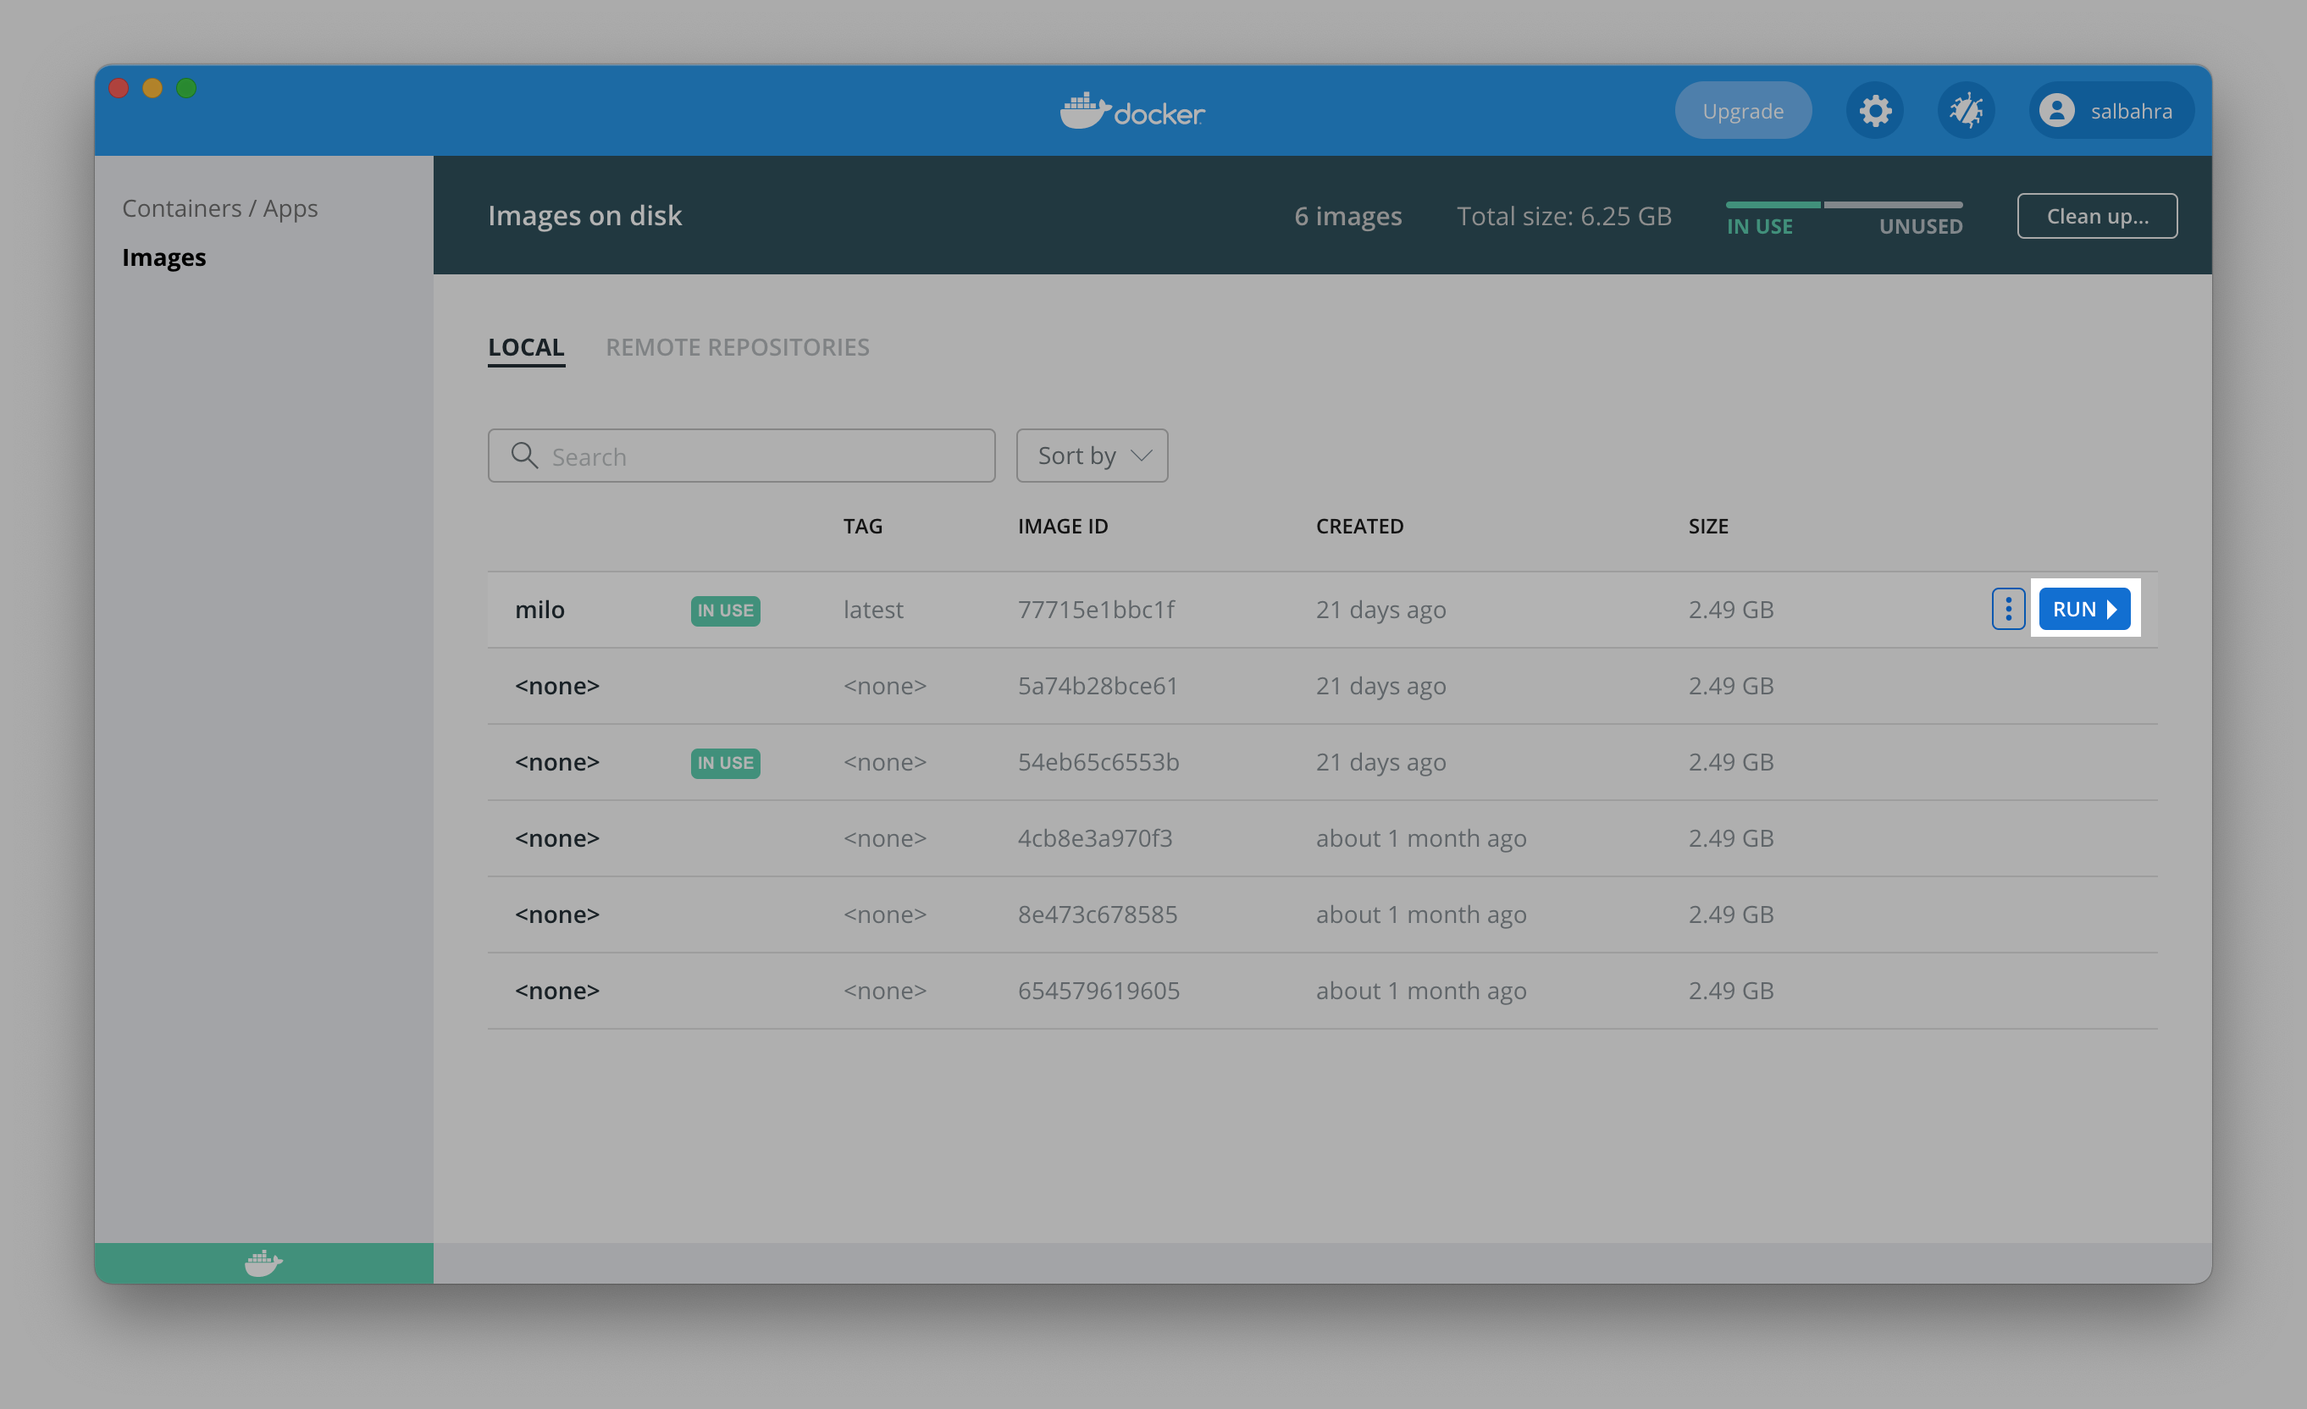
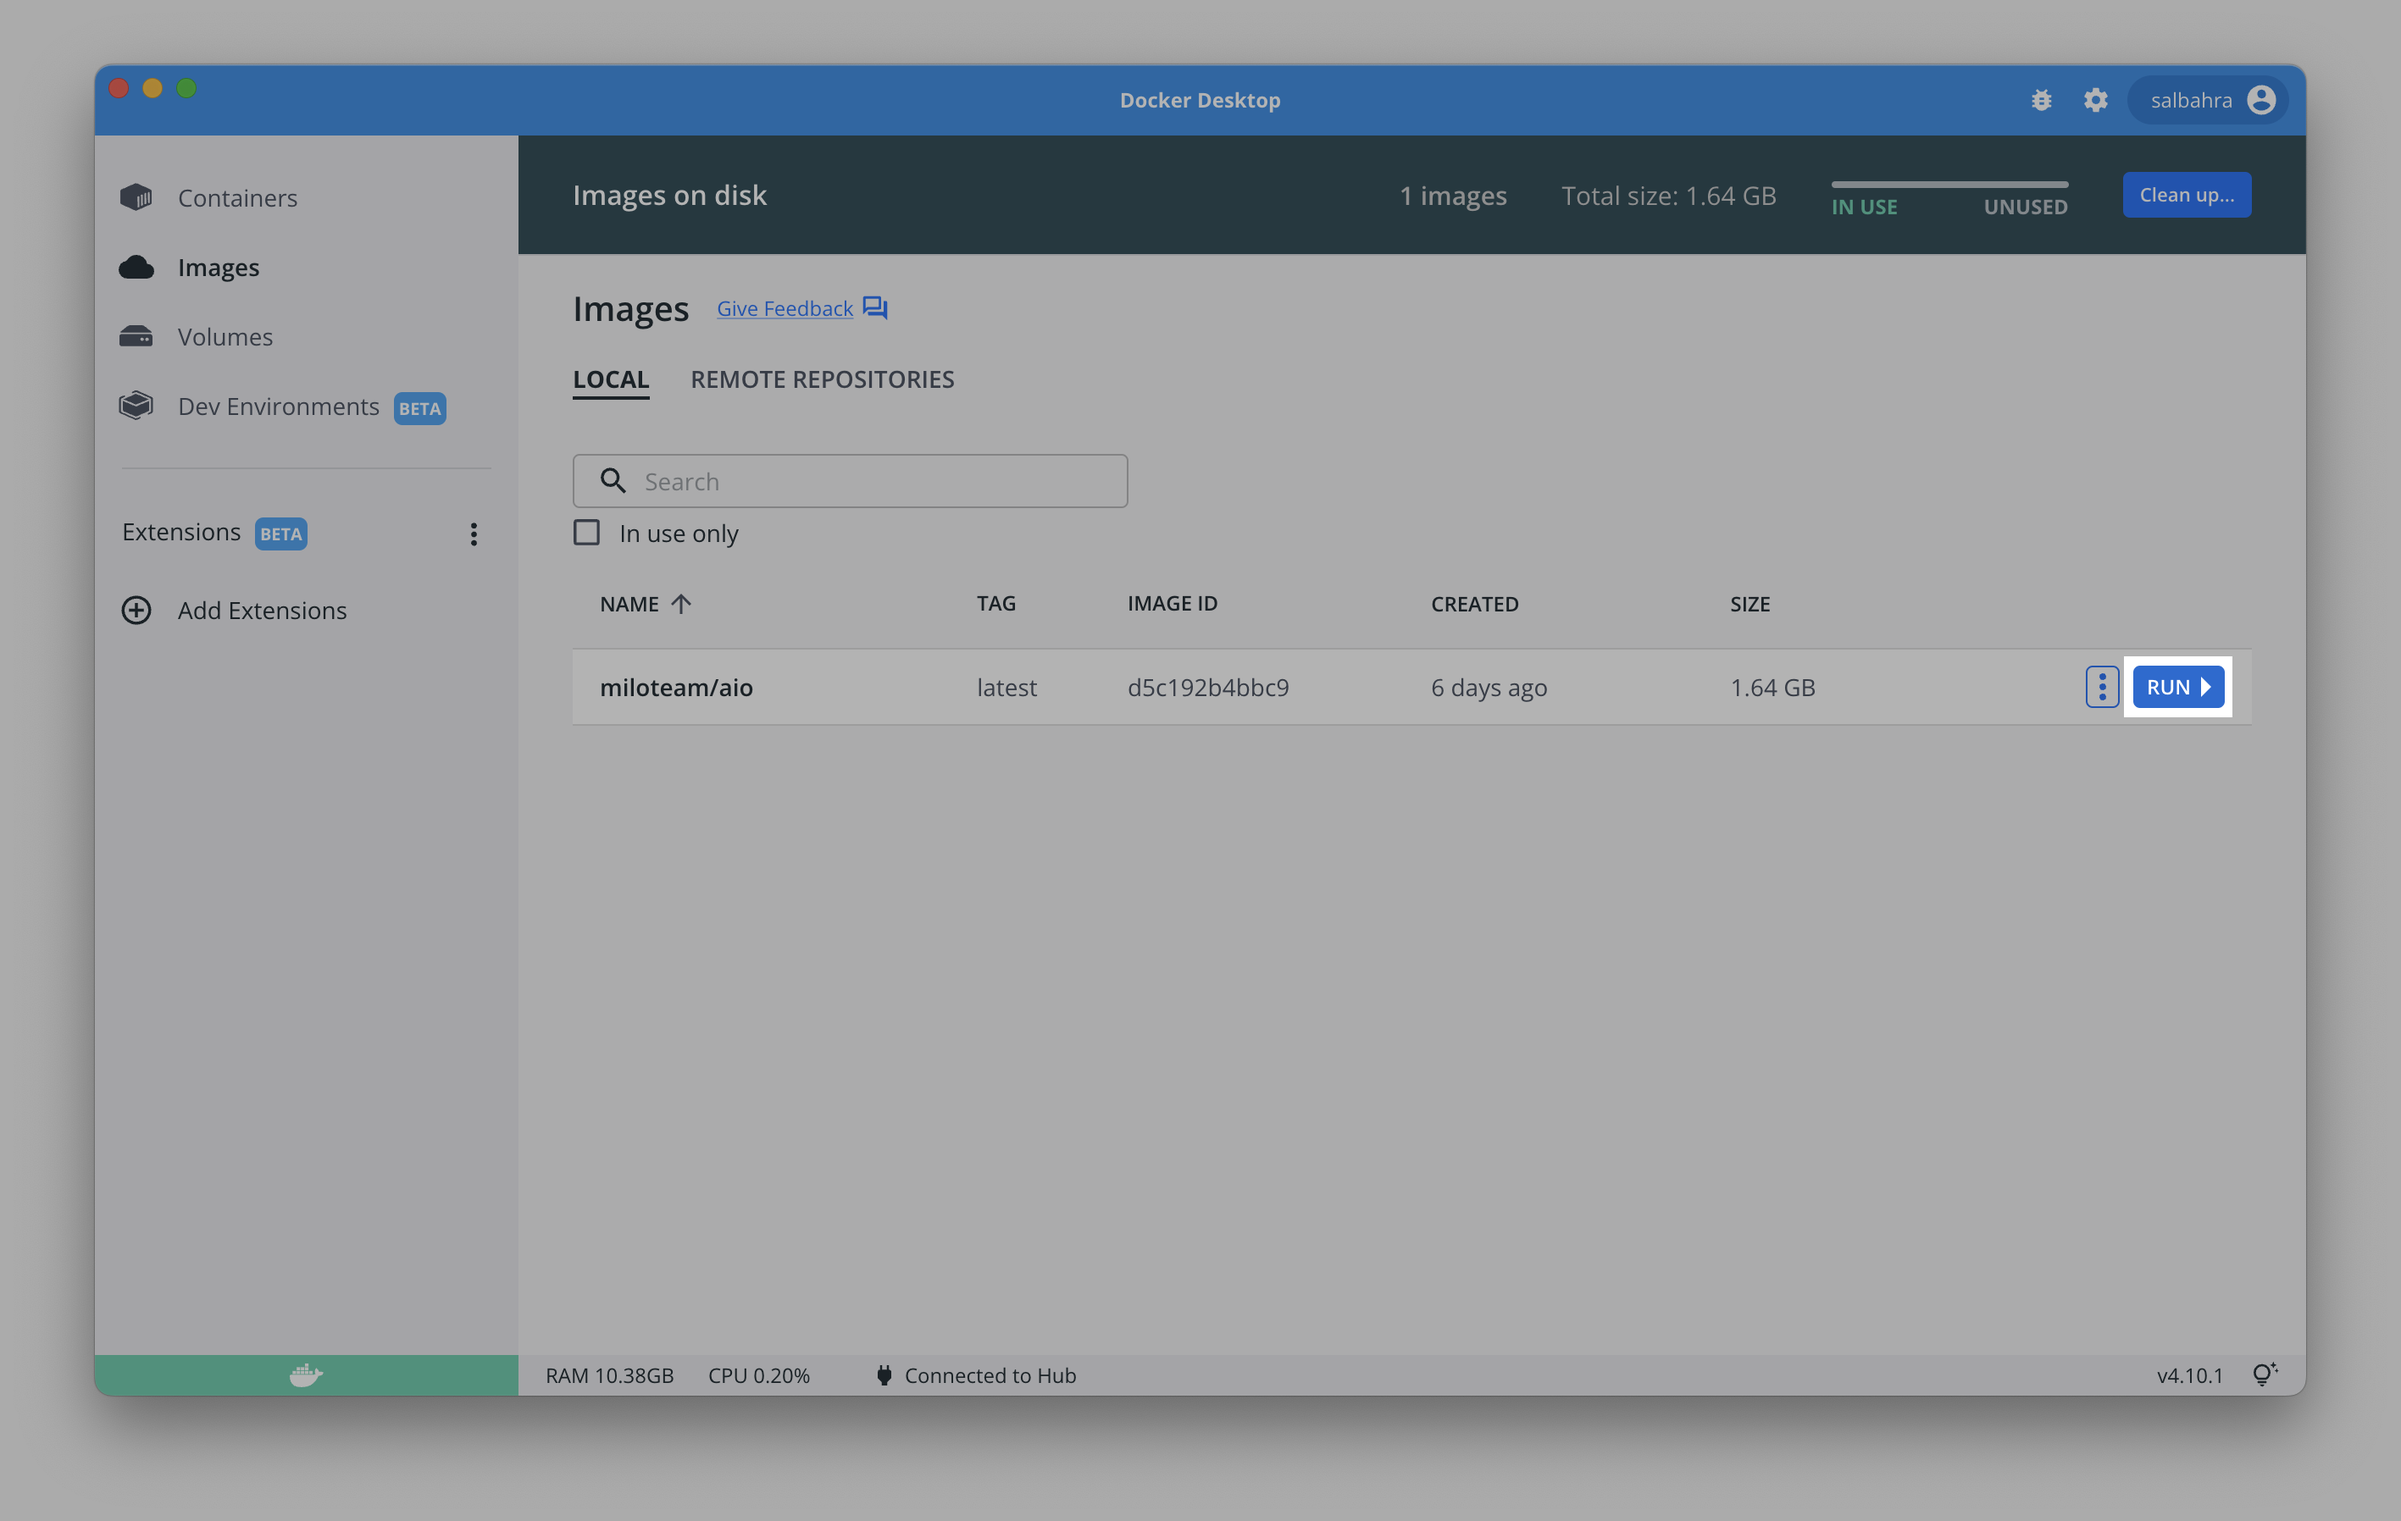
Improve docker install instructions

diff --git a/docs/src/install-guide/docker.md b/docs/src/install-guide/docker.md
@@ -2,11 +2,11 @@
 
 MILO-ML's docker image hosts everything needed to get up and running with MILO-ML.
 
-## 1) Install Docker Desktop
+## Install Docker Desktop
 
 Download [Docker Desktop](https://www.docker.com/products/docker-desktop) and follow the instructions from the installer to get it installed on your system.
 
-## 2) Open Docker Dashboard and Configuring Docker
+## Open Docker Dashboard and Configuring Docker
 
 This is a one time step after installing Docker to ensure enough resources are allocated for MILO-ML. This is done using the Docker Desktop Dashboard launched as shown here:
 
@@ -22,14 +22,10 @@ This will navigate to a settings page which has sections on the left hand side. 
 
 Here, please adjust the settings to maximize the available CPU and memory to meet at least 4 CPUs and at least 8GB of RAM.
 
-## 3) Download MILO-ML Image
+## Download the MILO-ML Image
 
-Please contact us to get a download link to our docker image. The file downloaded by the link provided will be a GZip file which should not be extracted.
-
-## 4) Import MILO-ML Image
-
-Docker Desktop does not currently provide a way to import an image but fortunately also installs Docker CLI. In this section, we will use Docker CLI
-to import the MILO-ML docker image.
+Docker Desktop does not currently provide a way to download an image but fortunately also installs Docker CLI. In this section, we will use Docker CLI
+to pull the MILO-ML docker image.
 
 Please open any terminal and run the following command:
 
@@ -40,18 +36,10 @@ For macOS users, you can search Spotlight for `Terminal`.
 :::
 
 ```sh
-# Replace the file name with the one you downloaded
-
-docker load -i milo-1.0.0.tar.gz
+docker pull miloteam/aio:latest
 ```
 
-::: tip
-You can drag and drop the file onto the terminal window to auto-populate the full file path. Start by typing `docker load -i ` (including the space at the end) and end by dragging the file onto the terminal window.
-
-![Docker Load](./images/docker-load.png)
-:::
-
-## 5) First Time Starting MILO-ML
+## First Time Starting MILO-ML
 
 Once the MILO-ML image is loaded, the remainder of the deployment can be performed within Docker Desktop.
 
@@ -59,7 +47,7 @@ To start this image first open the Docker Desktop Dashboard and navigate to the 
 
 ![Docker Images](./images/docker-images.png)
 
-You will see an image name prefixed with `milo/` and will end with the version of MILO loaded (e.g., education, pro, or trial). If you hover over this two buttons will appear one of which is labeled `Run` as shown here:
+You will see an image name prefixed with `miloteam/` and will end with the version of MILO loaded (e.g., education, pro, or trial). If you hover over this two buttons will appear one of which is labeled `Run` as shown here:
 
 ![Docker Run Image](./images/docker-image-run.png)
 
@@ -82,7 +70,7 @@ macOS added an Airplay Receiver service which listens on port 5000 and must eith
 
 Additional configuration options are available under the [Advanced Configuration](#advanced-configuration)
 
-## 6) Start Using MILO-ML
+## Start Using MILO-ML
 
 After you start MILO-ML, you should see some output similar to the following:
 
@@ -105,17 +93,18 @@ Once stopped, the button will change to a play button allowing you to start MILO
 
 ## Advanced Configuration
 
-::: warning
-Generally speaking, these values should not be used unless directed.
-:::
-
 In addition to the host port, several other options can be configured.
 
 MILO will store data within the Docker container however
 users may wish to store the data (uploaded datasets, run data, published models, etc.) outside of the container
-and may do so by mounting a volume. The `Host Path` refers to the location on the machine running Docker and the `Container Path`
+and may do so by mounting a volume. This is important when updating MILO in order preserve the data between versions.
+The `Host Path` refers to the location on the machine running Docker and the `Container Path`
 will always be: `/milo/data`. Additionally, SSL certificates are stored within `/milo/ssl` and can be mounted to replace the default
 self-signed certificate.
+
+::: warning
+Generally speaking, the below values should not be used unless directed.
+:::
 
 In addition, MILO will typically run in a single user mode meaning no authentication is done as the interface is only expected to
 be accessed via the localhost adapter. If you intend to run MILO to multiple users, you will want to disable the single user configuration
